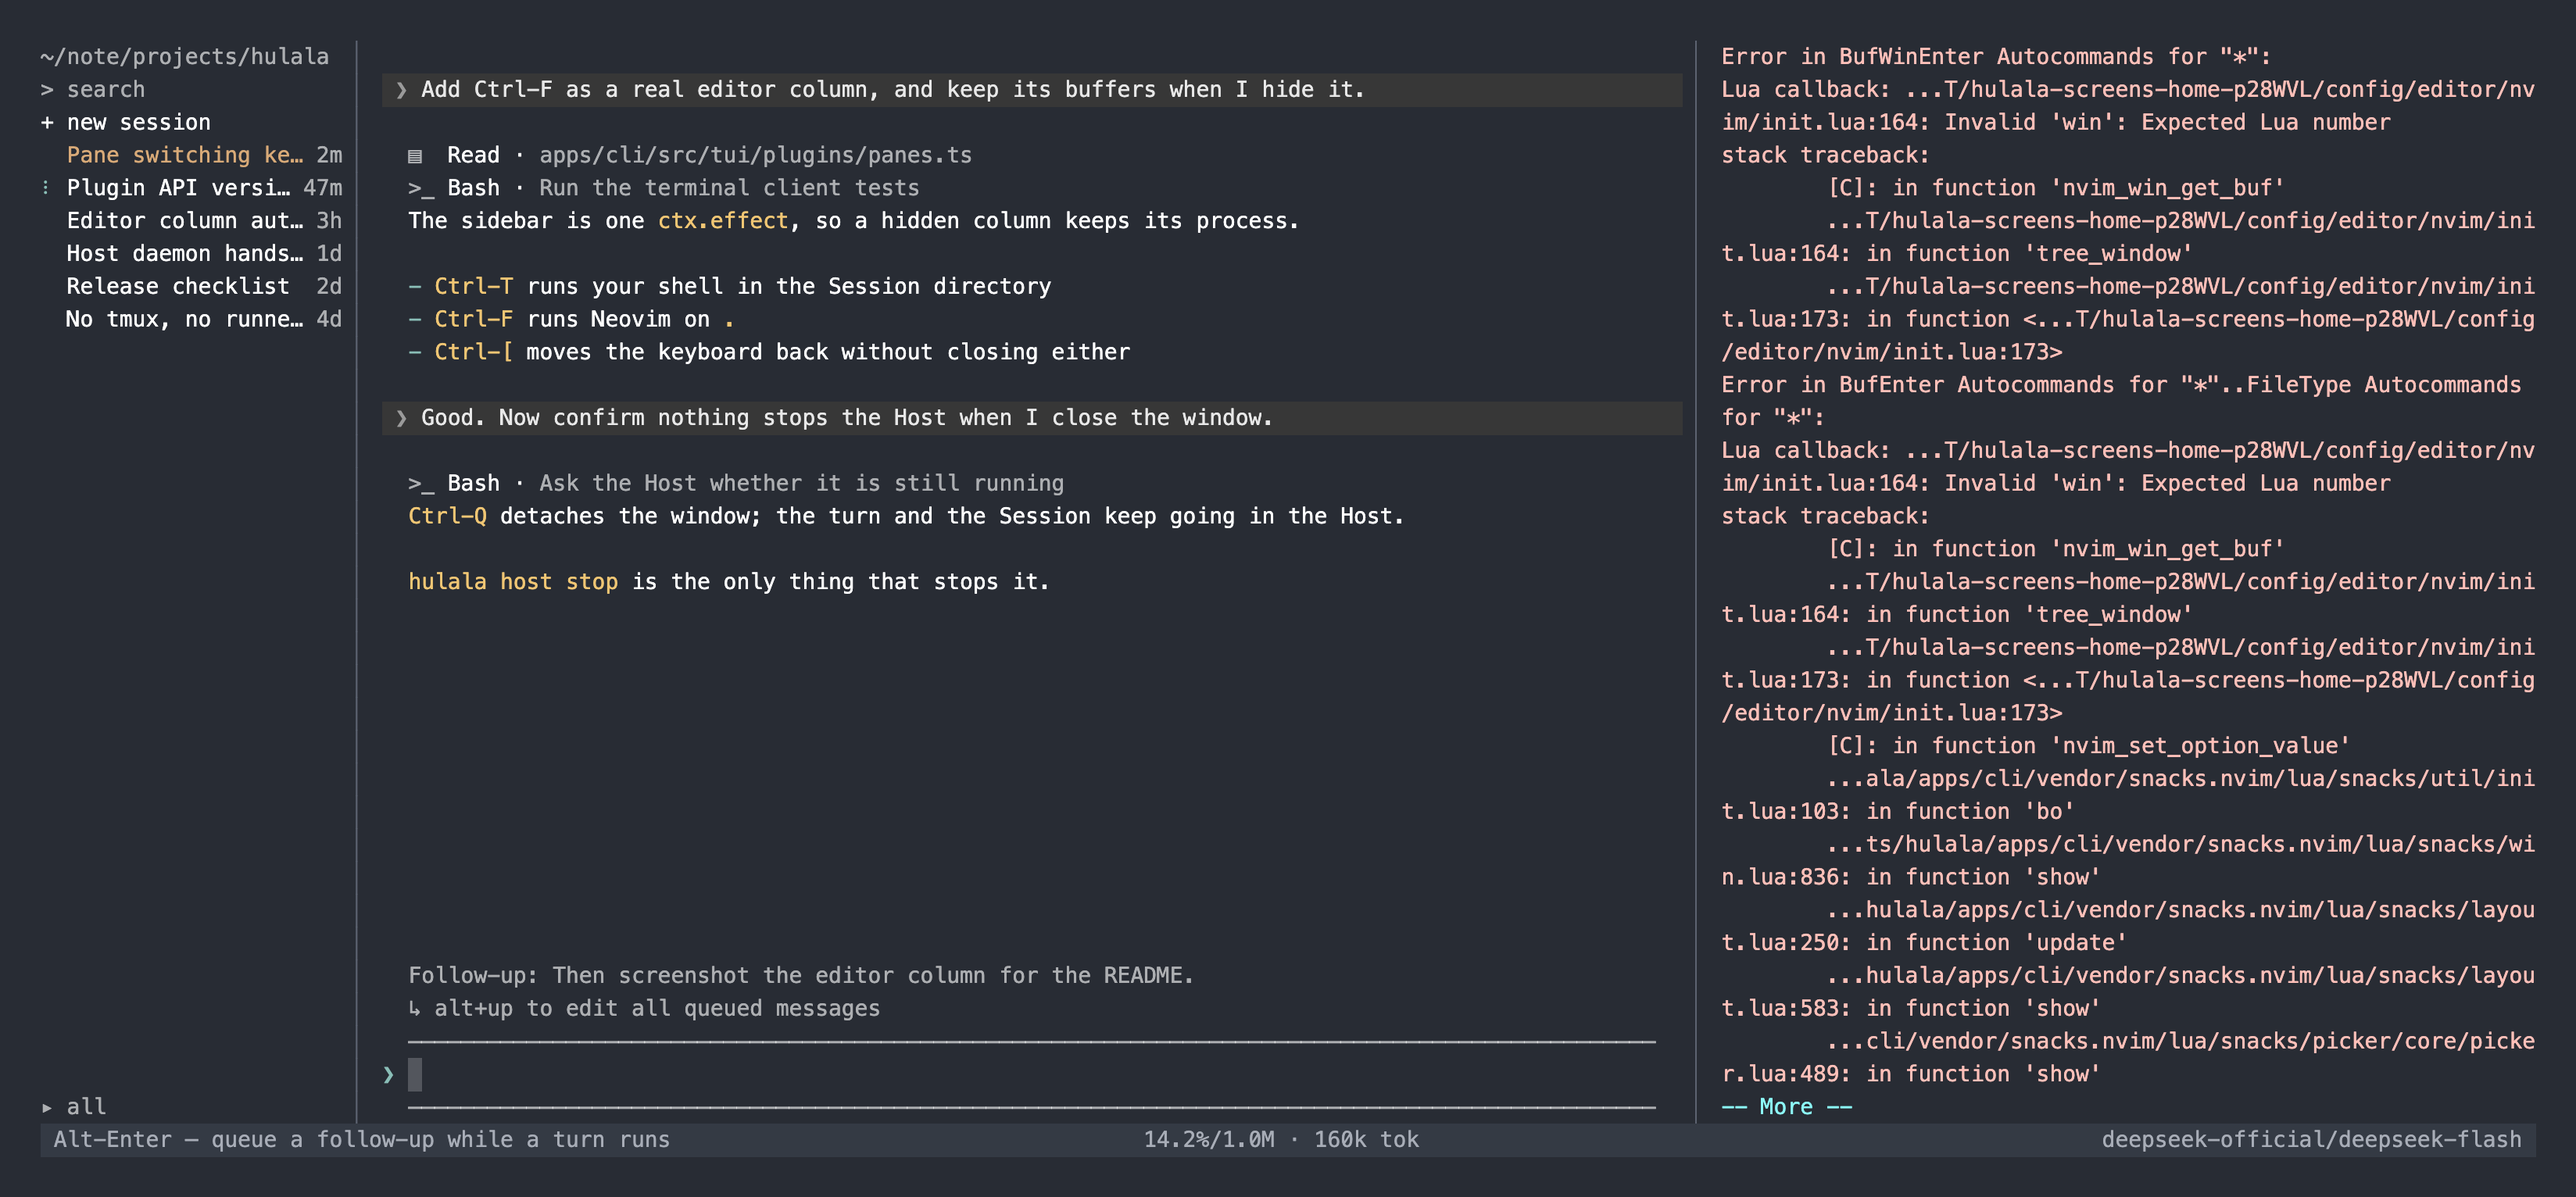
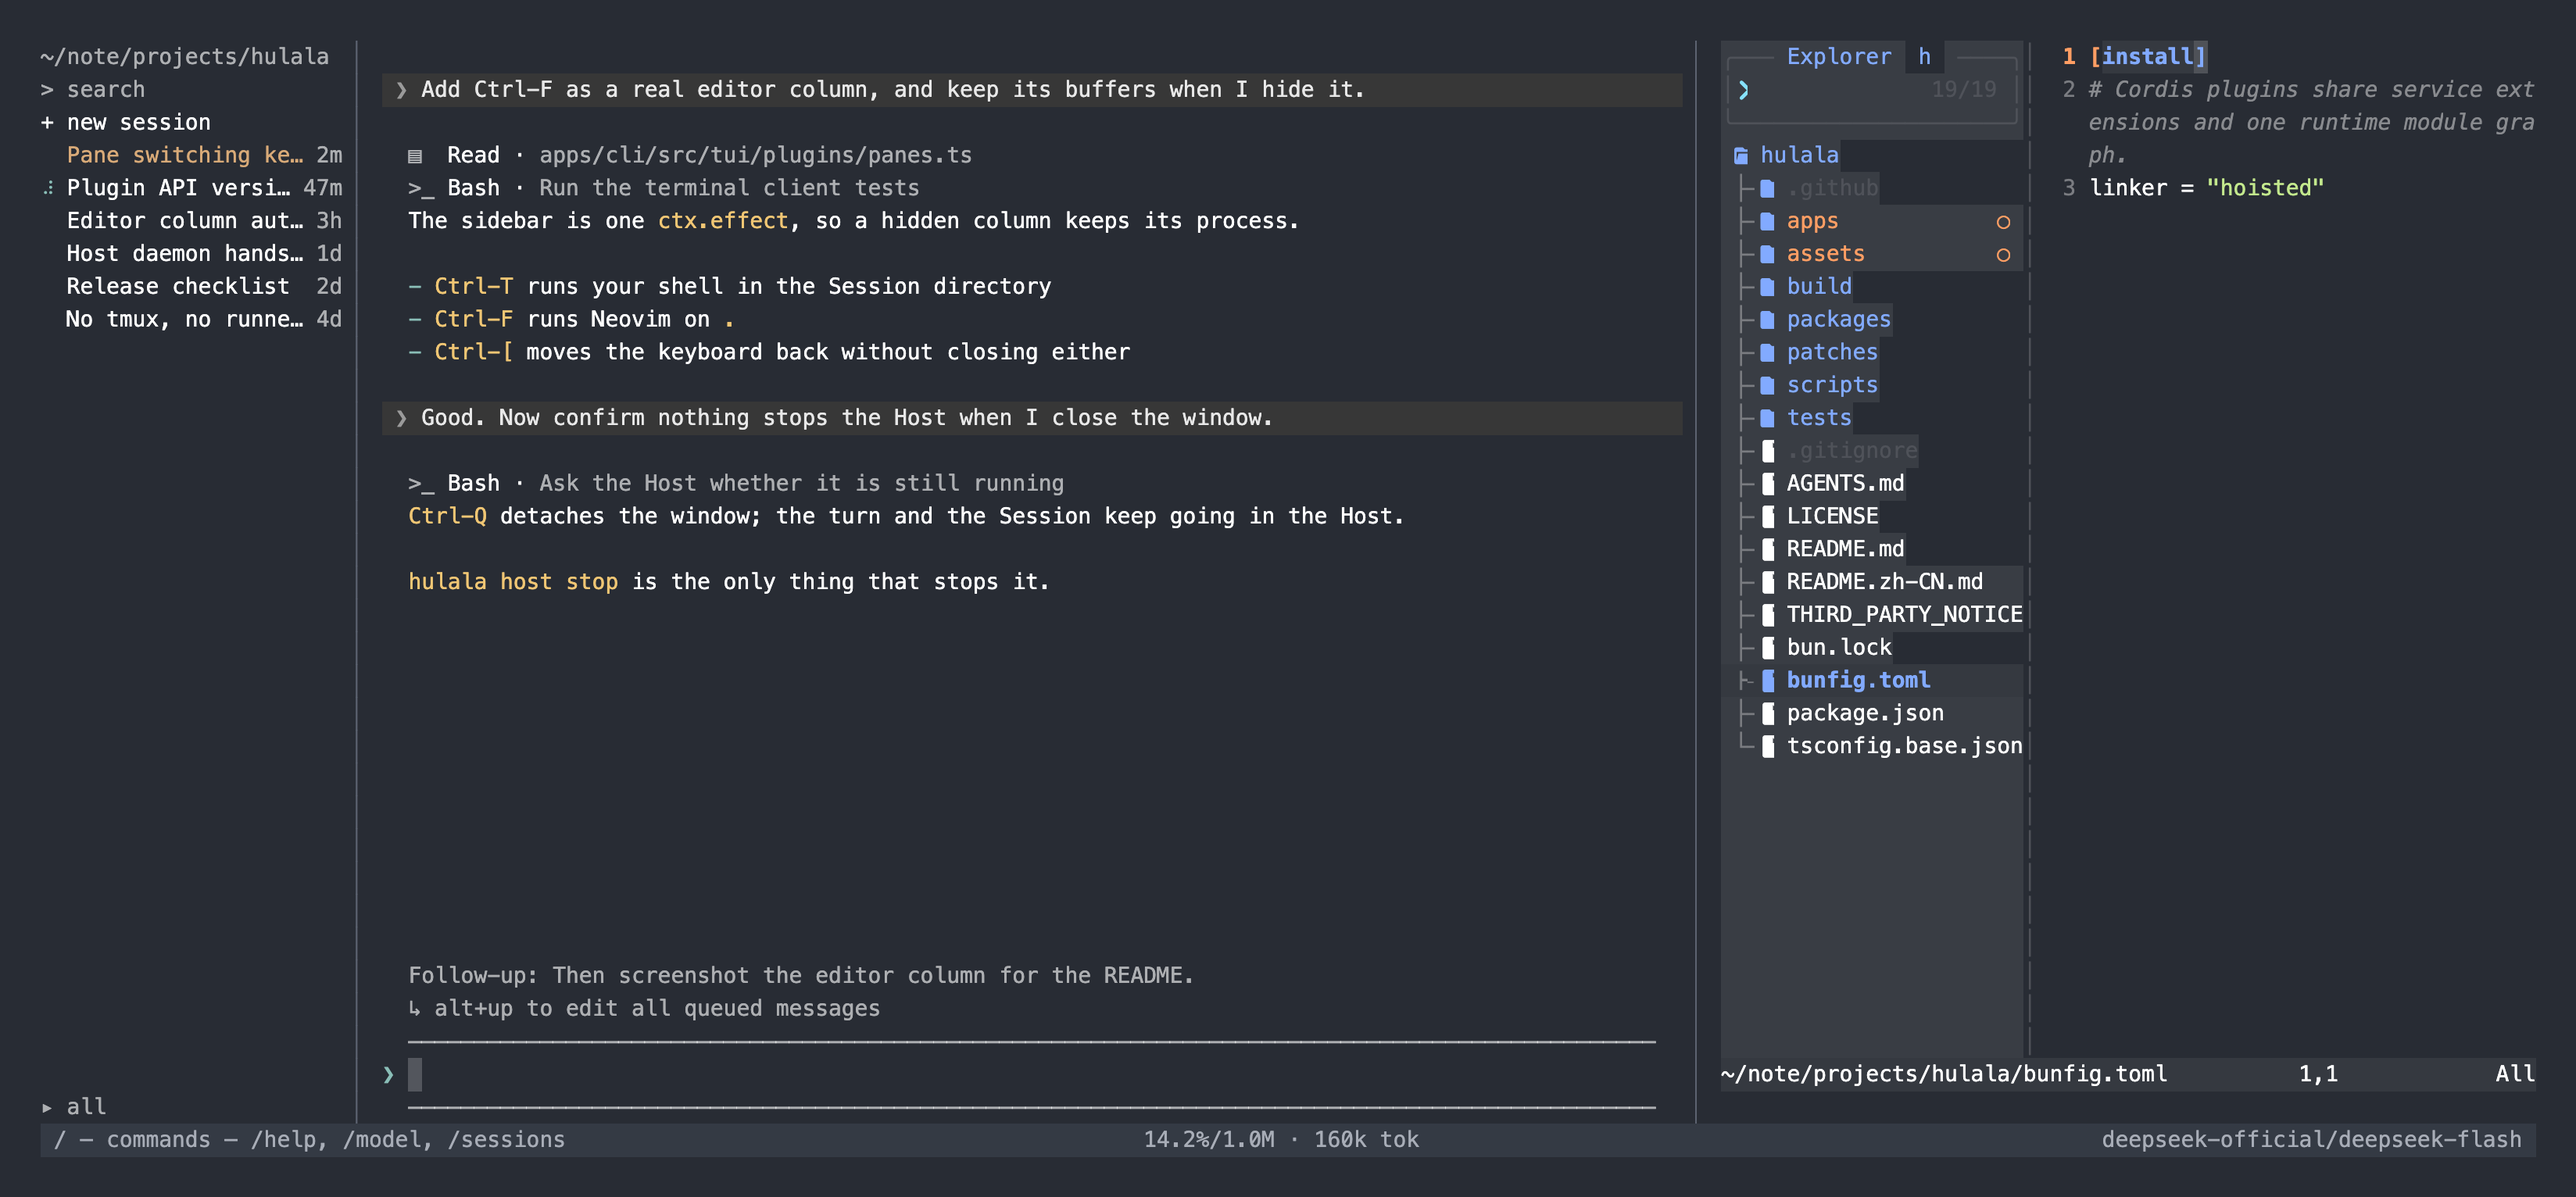
Mark the open file in the tree with ink, not a band
Hover already changes a row's background, so a filled selection read as a hover
and split the tree column into two surfaces. The rail is back to the same rule:
the open Session and the tree's open file are marked by text colour, and the row
under the keyboard is the only thing that ever changes shade.

diff --git a/apps/cli/src/tui/editor/nvimConfig.ts b/apps/cli/src/tui/editor/nvimConfig.ts
@@ -176,19 +176,57 @@ end
 -- column that is meant to read as one, and this client reserves background
 -- blocks for panels, never for selection.
 vim.api.nvim_set_hl(0, "HulalaTree", { fg = fg, bg = theme_value("pmenu", bg) })
-vim.api.nvim_set_hl(0, "HulalaTreeCursor", { bg = theme_value("pmenuSelected", bg) })
+-- The opened file is marked with ink, never a band: hover already changes the
+-- background, so a filled row would read as a hover and split the column into
+-- two surfaces.
+vim.api.nvim_set_hl(0, "HulalaTreeCurrent", { fg = theme_value("title", fg), bold = true })
 
+--- Is this window one of the tree's windows?
+---@param win integer
 local function tree_window(win)
+  if win == nil or win == 0 or not vim.api.nvim_win_is_valid(win) then return false end
   local filetype = vim.bo[vim.api.nvim_win_get_buf(win)].filetype
-  if not filetype:match("^snacks_picker") and filetype ~= "snacks_explorer" then return end
-  -- One surface for the whole column, whatever the tree is: the float it opens
-  -- as, and the window it becomes next to an opened file. The selected entry is
-  -- the only row allowed a different background.
-  vim.wo[win].winhighlight = "Normal:HulalaTree,NormalFloat:HulalaTree,EndOfBuffer:HulalaTree,SignColumn:HulalaTree,CursorLine:HulalaTreeCursor,SnacksPickerCursorLine:HulalaTreeCursor"
+  return filetype:match("^snacks_picker") ~= nil or filetype == "snacks_explorer"
 end
 
-vim.api.nvim_create_autocmd({ "FileType", "BufWinEnter", "WinEnter" }, {
-  callback = function(event) tree_window(event.win) end,
+--- One surface per tree window, and no cursor band.
+---@param win integer
+local function style_tree(win)
+  if not tree_window(win) then return end
+  vim.wo[win].cursorline = false
+  vim.wo[win].winhighlight = "Normal:HulalaTree,NormalFloat:HulalaTree,EndOfBuffer:HulalaTree,SignColumn:HulalaTree,CursorLine:HulalaTree"
+end
+
+--- Mark the row of the buffer that is open, by colouring its text.
+local function mark_open_file()
+  local name = vim.fn.fnamemodify(vim.api.nvim_buf_get_name(0), ":t")
+  for _, win in ipairs(vim.api.nvim_list_wins()) do
+    if tree_window(win) then
+      local buf = vim.api.nvim_win_get_buf(win)
+      local ns = vim.api.nvim_create_namespace("hulala-tree-current")
+      vim.api.nvim_buf_clear_namespace(buf, ns, 0, -1)
+      if name ~= "" then
+        local lines = vim.api.nvim_buf_get_lines(buf, 0, -1, false)
+        for index, text in ipairs(lines) do
+          if text:find(name, 1, true) ~= nil then
+            pcall(vim.api.nvim_buf_set_extmark, buf, ns, index - 1, 0, { end_col = #text, hl_group = "HulalaTreeCurrent" })
+            break
+          end
+        end
+      end
+    end
+  end
+end
+
+vim.api.nvim_create_autocmd({ "FileType", "BufWinEnter", "WinEnter", "BufEnter" }, {
+  -- The win field is 0 for some events, so the current window is the fallback; a
+  -- failure here must never turn into a message in the editor column.
+  callback = function(event)
+    local win = event.win
+    if win == nil or win == 0 then win = vim.api.nvim_get_current_win() end
+    pcall(style_tree, win)
+    pcall(mark_open_file)
+  end,
 })
 
 -- Bundled tree-sitter parsers, published next to the editor's runtime tree.

diff --git a/apps/cli/src/tui/view/theme.ts b/apps/cli/src/tui/view/theme.ts
@@ -69,14 +69,6 @@ const BAND_TEXT = [0xa8, 0xad, 0xb7] as const
  */
 const SEPARATOR_RGB = [0x5c, 0x63, 0x70] as const
 
-/**
- * The row under the keyboard in a list.
- *
- * The rail marks the open Session with ink; the row you are *on* is a band. Two
- * different questions — which Session is open, and where the keyboard is — read
- * as two different signals rather than one colour doing both jobs.
- */
-const SELECTED_BG = [0x3a, 0x3f, 0x4a] as const
 
 const RESET = '\u001b[0m'
 
@@ -171,7 +163,6 @@ function buildStyles(color: boolean): {
   brand: (text: string) => string
   band: (text: string) => string
   separator: (text: string) => string
-  selected: (text: string) => string
   userPanel: (text: string) => string
   userArrow: (text: string) => string
   error: (text: string) => string
@@ -185,7 +176,7 @@ function buildStyles(color: boolean): {
 } {
   if (!color) {
     const identity = (text: string): string => text
-    return { dim: identity, accent: identity, highlight: identity, brand: identity, band: identity, separator: identity, selected: identity, userPanel: identity, userArrow: identity, error: identity, warn: identity, ok: identity, bold: identity, italic: identity, strike: identity, underline: identity, code: identity }
+    return { dim: identity, accent: identity, highlight: identity, brand: identity, band: identity, separator: identity, userPanel: identity, userArrow: identity, error: identity, warn: identity, ok: identity, bold: identity, italic: identity, strike: identity, underline: identity, code: identity }
   }
   // A panel carries its own background and foreground. Inner styles reset both,
   // so re-open the panel after every nested reset to keep the row continuous to
@@ -199,7 +190,6 @@ function buildStyles(color: boolean): {
     accent: wrap('\u001b[36m', RESET),
     band: panel(`${bgOpen(BAND_BG)}${fgOpen(BAND_TEXT)}`),
     separator: wrap(fgOpen(SEPARATOR_RGB), RESET),
-    selected: panel(bgOpen(SELECTED_BG)),
     userPanel: panel(`${bgOpen(USER_PANEL_BG)}${fgOpen(USER_PANEL_TEXT)}`),
     userArrow: wrap(fgOpen(USER_PANEL_ARROW), RESET),
     error: wrap('\u001b[31m', RESET),

diff --git a/apps/cli/src/tui/view/sessionRail.ts b/apps/cli/src/tui/view/sessionRail.ts
@@ -434,11 +434,11 @@ export class SessionRail implements Component {
   ): string {
     if (row.kind === 'new') {
       const label = '+ new session'
-      return selected ? styles.selected(padEnd(label, width)) : padEnd(label, width)
+      return selected ? styles.accent(padEnd(label, width)) : padEnd(label, width)
     }
     if (row.kind === 'more') {
       const label = row.revealed ? '↑ Less' : `↓ More · ${row.hidden}`
-      return selected ? styles.selected(padEnd(label, width)) : padEnd(styles.dim(label), width)
+      return selected ? styles.accent(padEnd(label, width)) : padEnd(styles.dim(label), width)
     }
     const session = row.session
     const current = session.sessionId === state.currentId
@@ -452,7 +452,7 @@ export class SessionRail implements Component {
     const title = clip(sessionLabel(session), titleWidth)
     const gap = Math.max(0, width - 2 - visibleWidth(title) - timeWidth - 1)
     const plain = `${glyph} ${title}${' '.repeat(gap)} ${time}`
-    if (selected) return styles.selected(plain)
+    if (selected) return styles.accent(plain)
     const head = session.running ? styles.accent(glyph) : glyph
     const label = current ? styles.highlight(title) : title
     return `${head} ${label}${' '.repeat(gap)} ${styles.dim(time)}`
@@ -465,7 +465,7 @@ export class SessionRail implements Component {
     selected: boolean,
   ): string {
     const label = `${state.allExpanded ? '▾' : '▸'} all`
-    if (selected) return styles.selected(padEnd(label, width))
+    if (selected) return styles.accent(padEnd(label, width))
     return padEnd(styles.dim(label), width)
   }
 }
